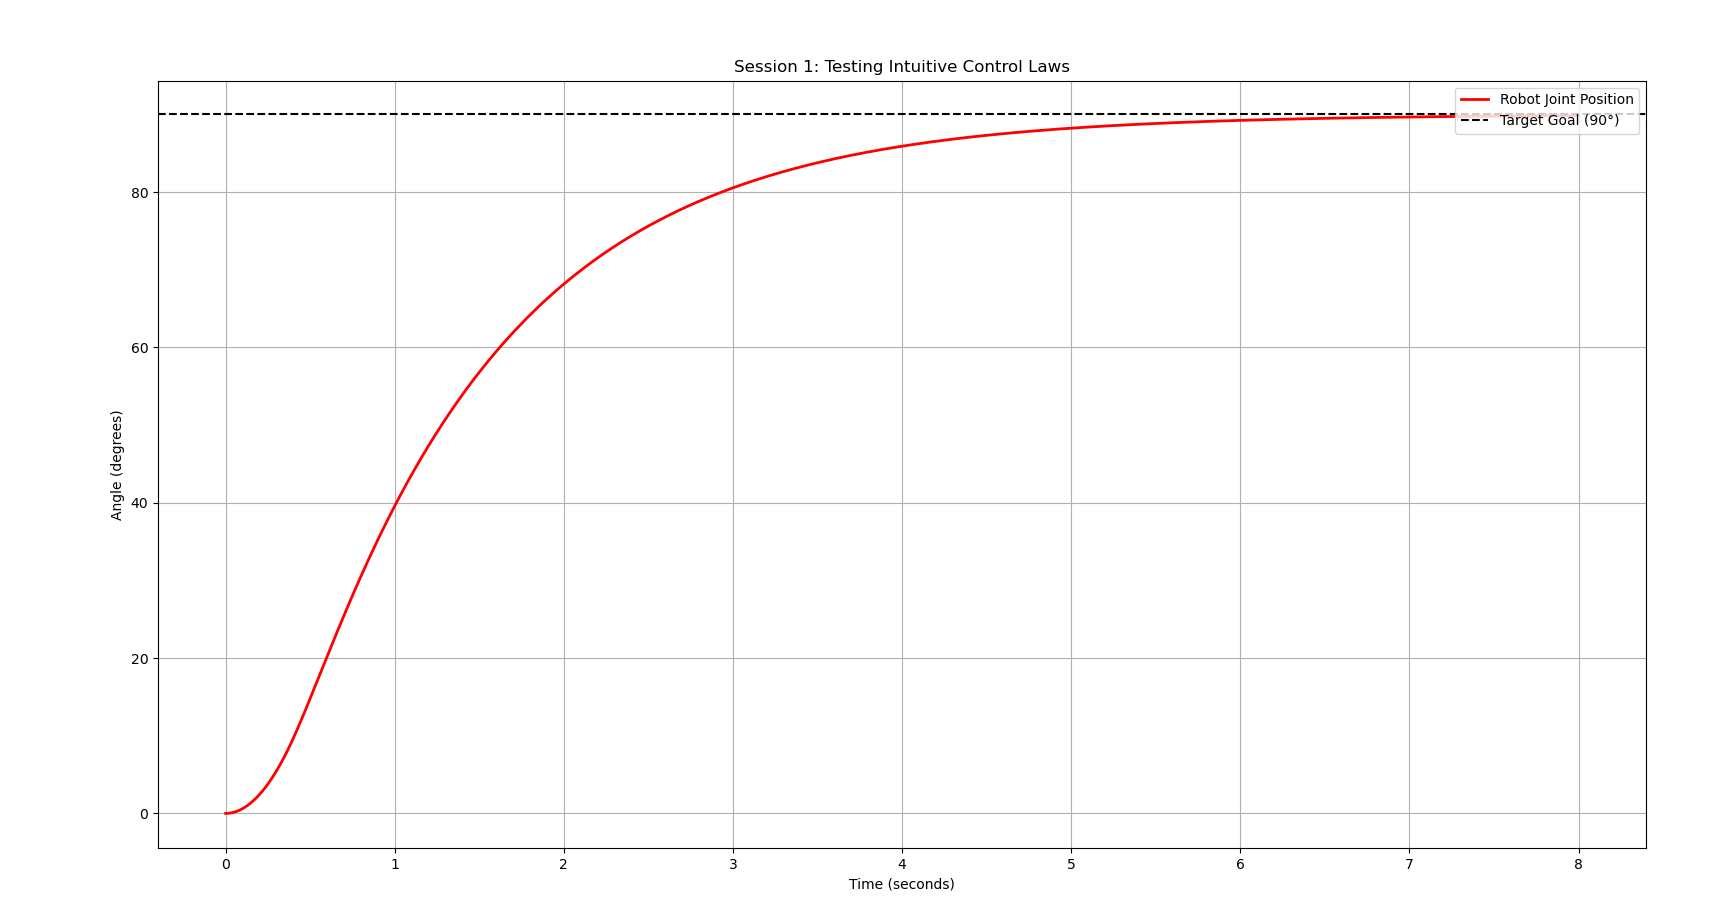
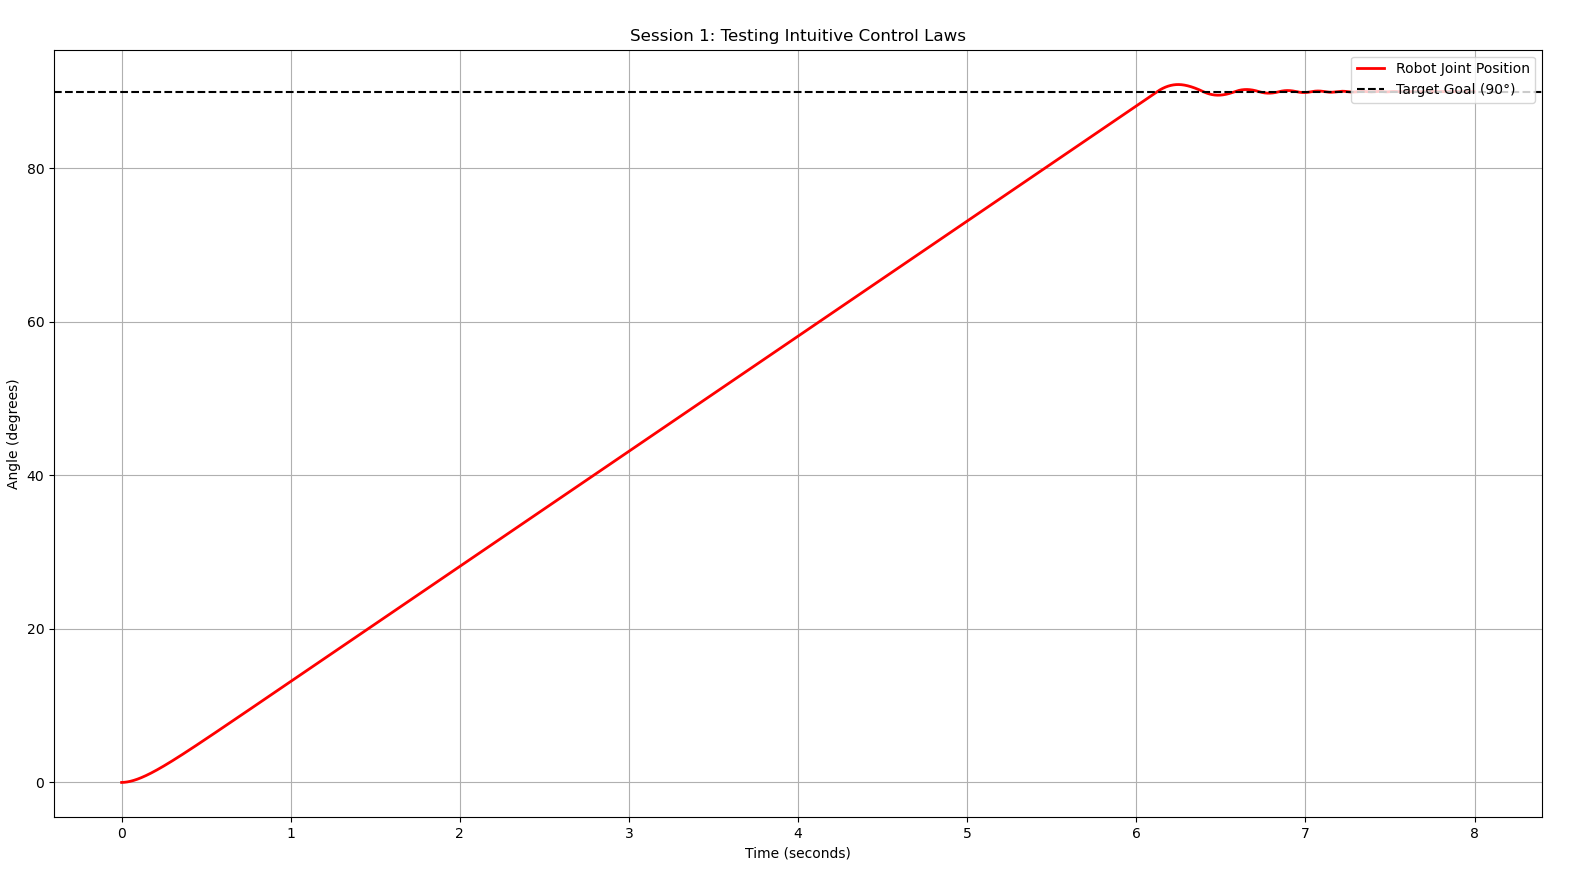
multiple changes

diff --git a/PID/Tutorial_1/Tutorial_1.md b/PID/Tutorial_1/Tutorial_1.md
@@ -98,78 +98,89 @@ Eh... again.
 Now it at least seems to have some direction of where its supposed to be, oscillating about that point but the oscillations are way too big to serve any purpose where we would need 90 degrees.
 Take a minute to think about what the problem could be, and then move on.
 
-We can see that regardless of where the rod is - 0 degrees or 89 degrees - the voltage and hence torque provided is the same. 
-But we do not need the same amount of torque to move 90 degrees as we do to move a single degree. 
-With this insight in mind, we can then propose a better solution - one that will be a foundational block in control systems - The proportionality constant Kp.
-Let there be a constant named Kp, which is a constant of proportionality between the difference of the desired and current angle , and the voltage output.
-ie Kp is the constant of proportionality between the "error" and output torque.
-Putting it into an equation, we get
-V_out = Kp * (Desired Angle - Current Angle)
-
-This error will be our lifeline. It will tell us by how much we are off. 
-On this we can base our calculations.
-
-Let us put this into the code with a sandbox function like so 
-```python
-def compute_motor_voltage(current_angle, time_elapsed):
-    error = TARGET_ANGLE - current_angle
-    Kp = 0.4
-    voltage = Kp * error
-    return voltage
-```
-
-Finally.. did that work?
-![[Tutorial_1_Image_5.png]]
-Nope it did not.
-It's pretty much the same as the last graph. 
-It's just doing simple harmonic motion, and in our case there's no friction to damp it either, so it just oscillates.
-Well.. yeah. But let me tell you- this is the right path. 
-We just need to improve it , bit by bit, and we will get what we want.
-
-So how do we improve this?
-What was the problem with the last 2 trials?
+So, how do we improve this?
+What was the problem with the last trial?
 
 It was that as the rod was approaching the desired angle - 90 degrees, it picked up speed.
-And with its speed and momentum it went past that point. When the code then saw an error, it tried to correct it and the same thing happened. Then again and again and again and it kept oscillating.
+And with its speed and momentum it went past that point. When the code then saw an error, it tried to correct it, send the rod flying back and the same thing happened. Then again and again and again and it kept oscillating.
 How do we fix this?
 
 We can fix it by reducing our speed when it gets too high.
-When the error changes too fast, we can add a "damping constant" of sorts. 
-So let us take the time derivative of the error. When the error is decreasing really fast, the derivative would be negative and reduce the output.
+When the speed changes too fast, we can add a "damping constant" of sorts. 
+So let us take the time derivative of the Angular position, and add it to the desired output. When the error is decreasing really fast, the derivative would be negative and reduce the output.
 We come to the formula
-$$\text{Output} = K_p(e) + K_d\left(\frac{de}{dt}\right)$$
+$$\text{Output} = (+- 12V ) - K_d\left(\frac{d(Theta)}{dt}\right)$$
 Where Kd is the relevant proportionality constant.
 
 Let us simulate this by making these changes/additions to the code
 ```python
-prev_error = None
+prev_angle = None
 def compute_motor_voltage(current_angle, time_elapsed):
-    global prev_error
+    global prev_angle
     Kd = 0.8
-    Kp = 0.4
     error = TARGET_ANGLE - current_angle
-    if prev_error is None:
-         prev_error = error
-    error_derivative = (error - prev_error) / DT
-    prev_error = error
-    d_voltage = Kd * error_derivative
-    p_voltage = Kp * error
+    angle_derivative = (current_angle - prev_angle) / DT 
+    prev_angle = current_angle
+    d_voltage = -Kd * angle_derivative
+    p_voltage = 12*(error)/abs(error)
     voltage = d_voltage + p_voltage
     return voltage
 ```
 Okay.. did that work?
 
 ![[Tutorial_1_Image_6.png]]
-Wow. Beautiful. Whatta beauty.
+
+Wow. Wonderful. Whatta beauty.
 Yes, it works.
 
-We have just made a PD controller in an ideal environment. 
-We have just rediscovered, ourselves, the P and D in PID
+However we can see that it takes over 6 seconds to get close to the desired output, and there are some small oscillations towards the end.
+Let's play with some values and see how the response changes.
+Take some time to tweak the values of Kd and the multiplier of p_voltage (currently set to the max of 12). Try it.
 
-That is all for Tutorial 1
-Homework tasks:
-Play around with the simulation - how does it react to different values of Kd and Kp?
-What if we used the <90 and >90 method with Kd?
-Different starting positions?
-The <90 and >90 +-12V method has its merits as well.
-Research about where that is used and why we generally use Kp.
+We see a general trend :
+The greater the value of Kd, the longer it takes to get to the desired output and the faster it settles down at the desired output
+The greater the value of the p_voltage multiplier, the faster it gets to the desired output but the longer it takes to settle down.
+
+Here is a run with them set to 0.2 and 8
+![[Tutorial_1_Image_7.png]]
+Pretty decent run. 
+However here we see the oscillations more.
+Is there any way we can minimize them? Take a minute to think about why it oscillates in the first place and how we could fix it.
+
+We can see that we need the rod to move fast when its far away from the target angle and settle down faster when it is closer to the target angle.
+There are a couple of ways to do this. As we can see from the trends we noted earlier, we can change Kd and p_voltages output to match what we want - reach faster or settle faster.
+What if we had a system where we could dynamically choose their value based on what we want?
+This is what I propose : We measure the error (Target angle - Current angle) and we scale p_voltages output proportionally to that. 
+That way, when the error is large, it moves to the target fast and when its smaller the oscillations die quickly.
+Let us try implementing this using the error and a new constant Kp to control the output with this code :
+
+```python
+prev_angle = None
+def compute_motor_voltage(current_angle, time_elapsed):
+    global prev_angle
+    if prev_angle is None:
+        prev_angle = current_angle
+    Kd = 2.5
+    Kp = 6
+    error = TARGET_ANGLE - current_angle
+    angle_derivative = (current_angle - prev_angle) / DT 
+    prev_angle = current_angle
+    d_voltage = -Kd * angle_derivative
+    p_voltage = Kp * error
+    voltage = d_voltage + p_voltage
+    return voltage
+```
+
+![[Tutorial_1_Image_8.png]]
+Woah okay. That seems to be miles better.
+
+It works. It's great. We are so smart fr.
+
+That's all for tutorial 1.
+We have rediscovered the P and the D in 'PID'.
+Next tutorial will be going over ...
+
+Homework : 
+- Play around with the values of Kp and Kd. What do you notice? 
+- Is there merit to the method we were using before Kp?
+- This is an ideal case - No friction, no gravity, no power consumption. In the real world what problems might we face with this simplistic system?

diff --git a/Temp.md b/Temp.md
@@ -1,0 +1,27 @@
+We can see that regardless of where the rod is - 0 degrees or 89 degrees - the voltage and hence torque provided is the same. 
+But we do not need the same amount of torque to move 90 degrees as we do to move a single degree. 
+With this insight in mind, we can then propose a better solution - one that will be a foundational block in control systems - The proportionality constant Kp.
+Let there be a constant named Kp, which is a constant of proportionality between the difference of the desired and current angle , and the voltage output.
+ie Kp is the constant of proportionality between the "error" and output torque.
+Putting it into an equation, we get
+V_out = Kp * (Desired Angle - Current Angle)
+
+This error will be our lifeline. It will tell us by how much we are off. 
+On this we can base our calculations.
+
+Let us put this into the code with a sandbox function like so 
+```python
+def compute_motor_voltage(current_angle, time_elapsed):
+    error = TARGET_ANGLE - current_angle
+    Kp = 0.4
+    voltage = Kp * error
+    return voltage
+```
+
+Finally.. did that work?
+![[Tutorial_1_Image_5.png]]
+Nope it did not.
+It's pretty much the same as the last graph. 
+It's just doing simple harmonic motion, and in our case there's no friction to damp it either, so it just oscillates.
+Well.. yeah. But let me tell you- this is the right path. 
+We just need to improve it , bit by bit, and we will get what we want.